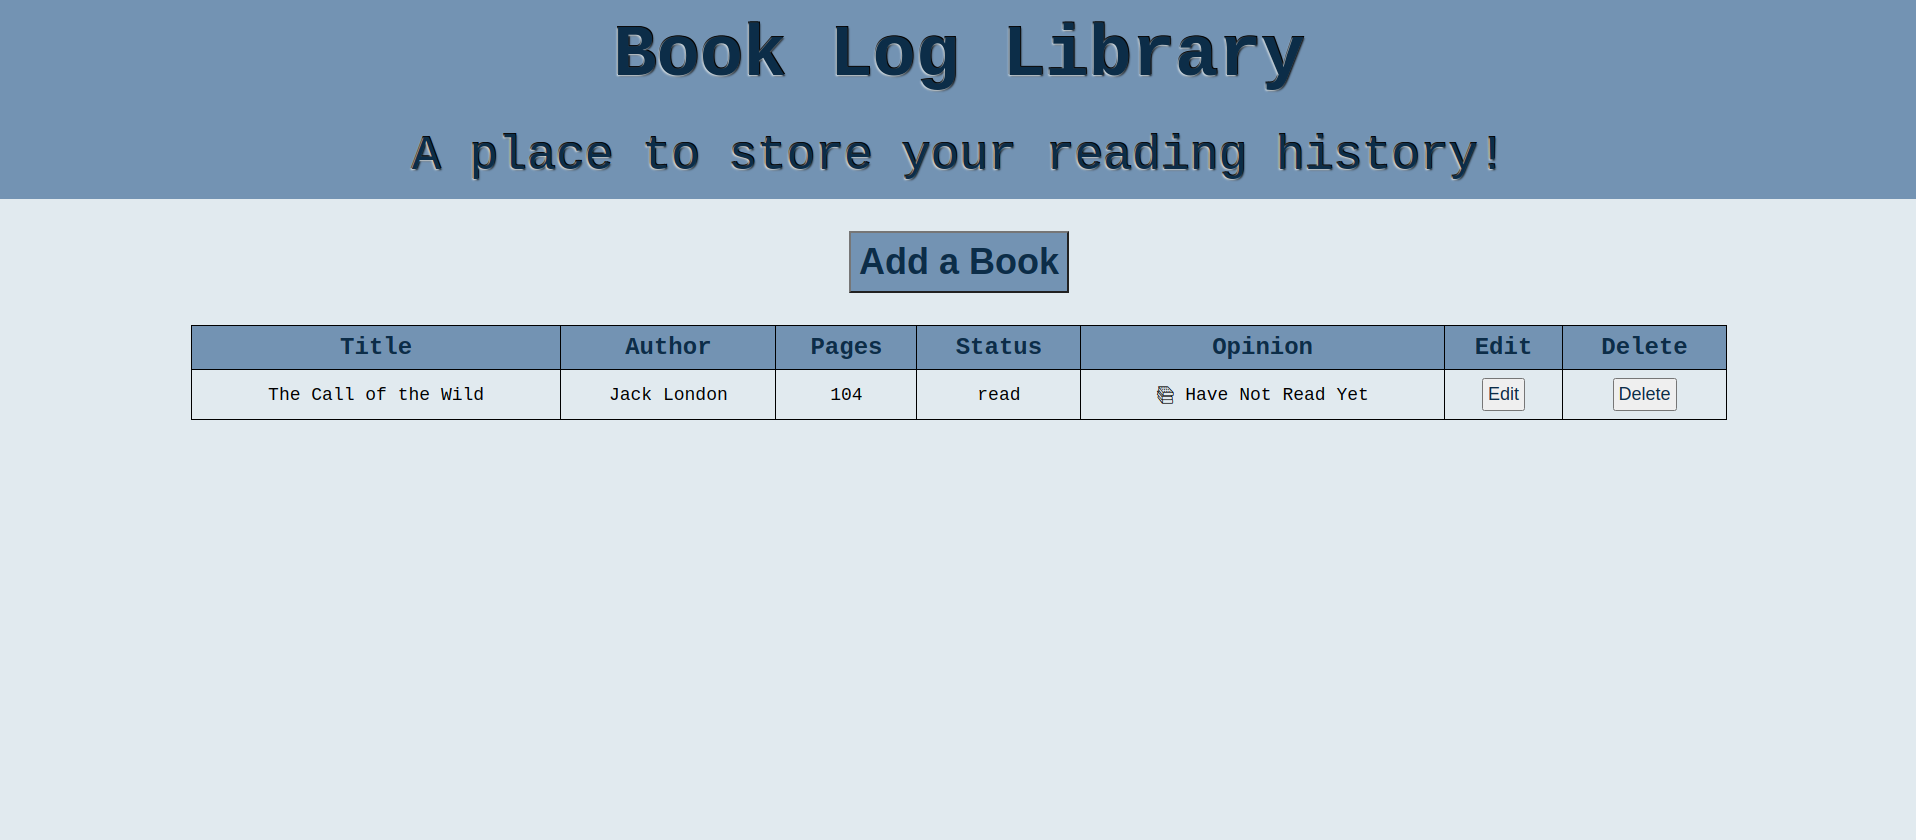
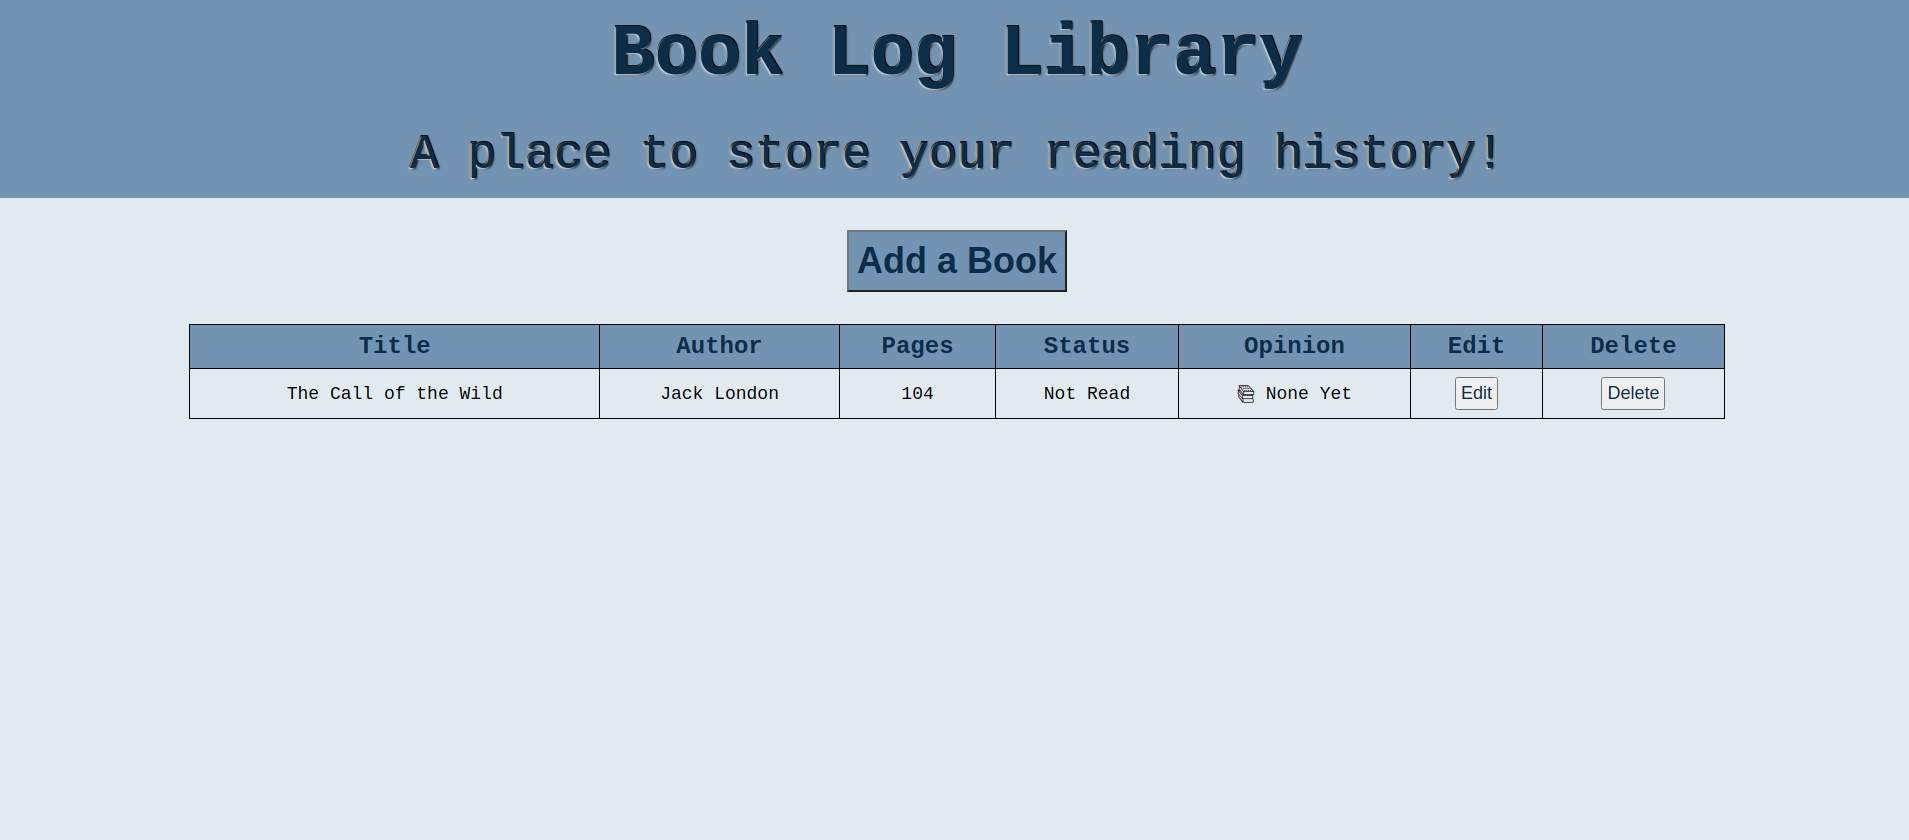
updated image and opinion message

diff --git a/index.html b/index.html
@@ -55,15 +55,15 @@
                 <input type="text" id="book-author" placeholder="Author of Book" name="author-name" required>
                 <input type="number" id="book-pages" placeholder="Number of Pages" name="book-pages" >
                 <select id="read-status" name="read-status" required>
-                    <option value="read">Read</option>
-                    <option value="not-read">Not Read</option>
+                    <option id="read">Read</option>
+                    <option id="not-read">Not Read</option>
                 </select>
                 <select id="read-opinion" name="read-option">
                     <option id="love-book">❤ Loved It</option>
                     <option id="like-book" value="like-book">😃 Liked It</option>
                     <option id="ok-book" value="ok-book">😐 Just Ok</option>
                     <option id="dislike-book" value="dislike-book">☹ Terrible</option>
-                    <option id="have-not-read-book" >📚 Have Not Read Yet</option>
+                    <option id="have-not-read-book" >📚 None Yet</option>
                 </select>
                 <div class="form-buttons">
                     <input type="button" id="back" value="Back">
